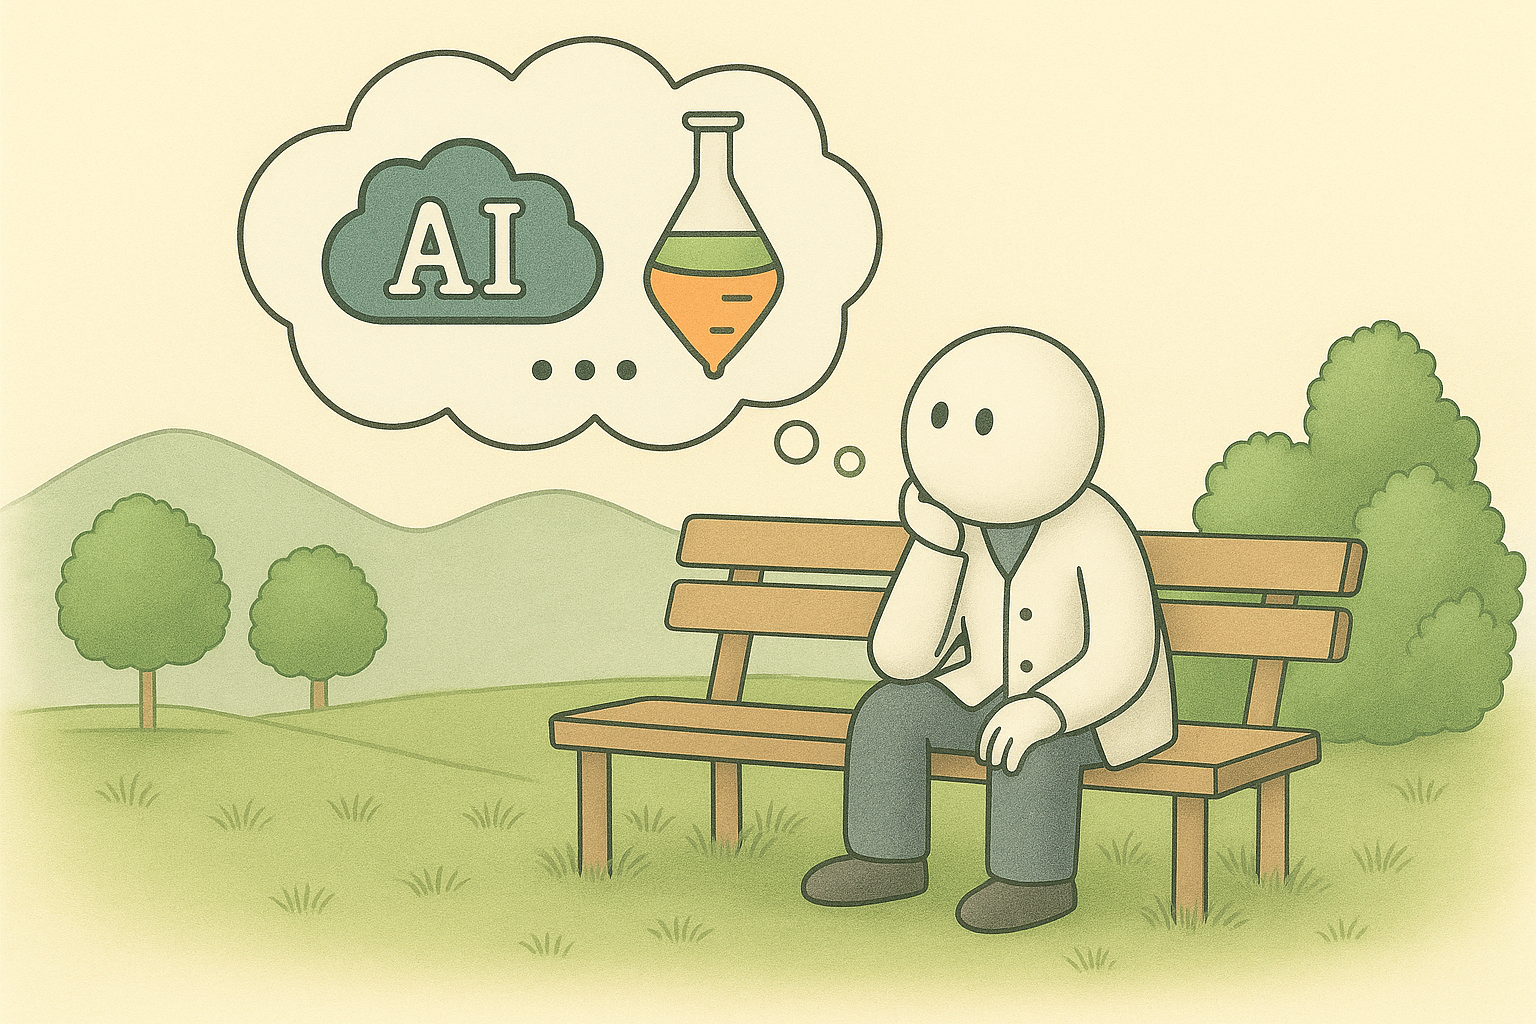
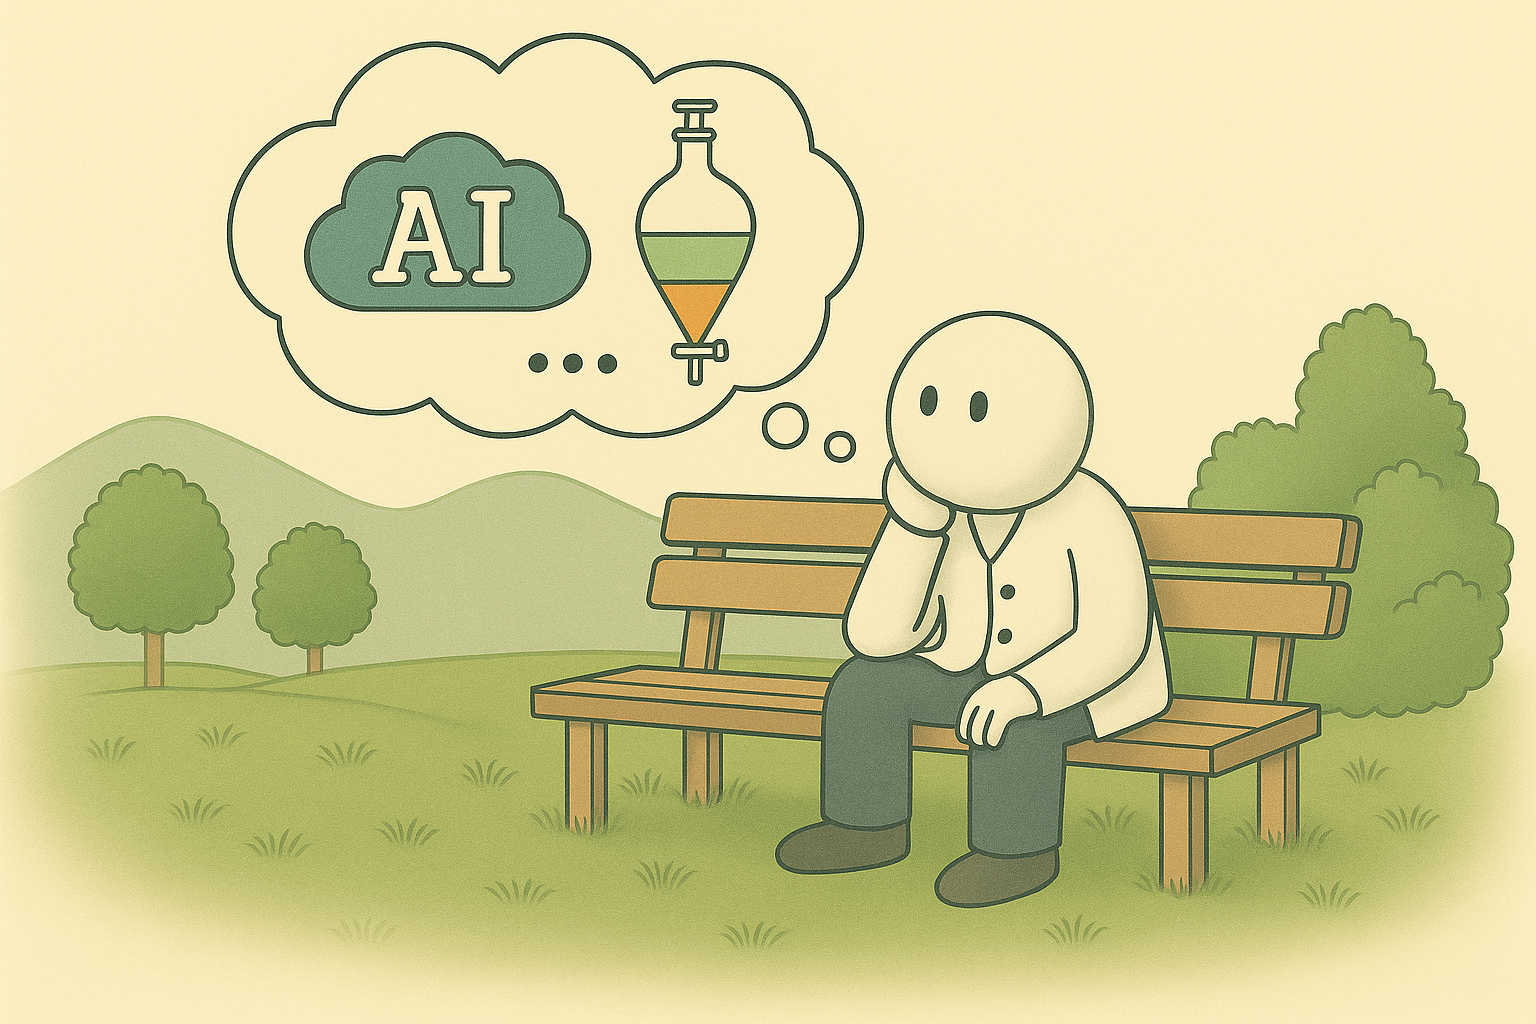
change home

Changed region(s): [[0.0, 0.0312, 1.0, 0.9688], [0.4688, 0.9062, 0.5, 0.9375], [0.4375, 0.875, 0.4688, 0.9062]]

diff --git a/_pages/home.md b/_pages/home.md
@@ -15,7 +15,7 @@ working on **chemical separation challenges** with the help of **artificial inte
 <img src="{{ site.url }}{{ site.baseurl }}/images/1_home/home.png" width="80%">
 </figure>
 
-**We are always looking for passionate PhD students, Postdocs, and Master students to join our team![(more info)](https://jiyizhezhang.github.io/vacancies)**
+We are always looking for passionate **PhD students, Postdocs, and Master students** to join our team!** [(more info)](https://jiyizhezhang.github.io/vacancies) **
 
 
 
